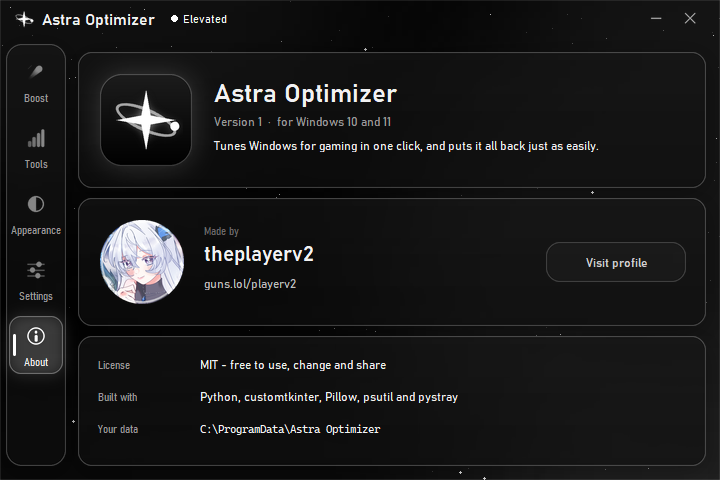
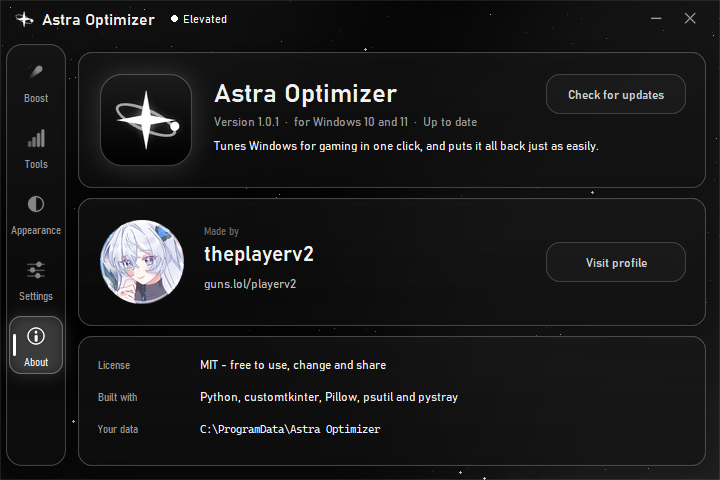
Astra Optimizer v1.0.1: update check
- Checks GitHub releases at startup and every 12 hours while running;
  only looks, never downloads or installs
- About tab: Check for updates button that becomes Download vX, plus
  status in the version line and a dot on the About tab
- Settings: new "Check for updates" switch (rows tightened to fit six)
- README and screenshots updated

Changed region(s): [[0.3667, 0.2188, 0.6722, 0.2812], [0.7944, 0.1875, 0.9167, 0.2188]]

diff --git a/optimizer.py b/optimizer.py
@@ -56,10 +56,14 @@ except Exception:  # pragma: no cover - depends on the build
 
 APP_NAME = "Astra Optimizer"
 LEGACY_APP_NAME = "Optimizer"  # pre-1.12 name: data folder and startup task are carried over
-APP_VERSION = "1.0.0"
-DISPLAY_VERSION = "v1"
+APP_VERSION = "1.0.1"
+DISPLAY_VERSION = "v1.0.1"
 CREDIT_NAME = "theplayerv2"
 CREDIT_URL = "https://guns.lol/playerv2"
+UPDATE_REPO = "theplayerv2/astra-optimizer"
+RELEASES_URL = f"https://github.com/{UPDATE_REPO}/releases"
+UPDATE_API = f"https://api.github.com/repos/{UPDATE_REPO}/releases/latest"
+UPDATE_INTERVAL_MS = 12 * 3600 * 1000  # re-check while it stays open in the tray
 
 # Monochrome palette - brightness carries all meaning (no hue accents)
 VOID = "#000000"          # true black space
@@ -1927,7 +1931,55 @@ EVENT_MODIFY_STATE = 0x0002
 SW_RESTORE = 9
 DEFAULT_SETTINGS = {"tray": True, "autostart": False, "hotkey": True, "custom_host": "", "tray_hint": False,
                     "preview": True, "games": [], "game_auto": False, "clean_skip": [], "dns_original": None,
-                    "restore_point": True, "restore_point_at": 0}
+                    "restore_point": True, "restore_point_at": 0, "updates": True}
+
+
+# --------------------------------------------------------------------------------------
+# Update check (GitHub releases; it only looks, nothing is downloaded or installed)
+# --------------------------------------------------------------------------------------
+
+def parse_version(text: str | None) -> tuple[int, ...] | None:
+    """'v1.0.2' -> (1, 0, 2); trailing zeros dropped so 'v1' == '1.0.0'."""
+    match = re.match(r"\s*v?(\d+(?:\.\d+)*)", text or "", re.IGNORECASE)
+    if not match:
+        return None
+    parts = [int(part) for part in match.group(1).split(".")]
+    while len(parts) > 1 and parts[-1] == 0:
+        parts.pop()
+    return tuple(parts)
+
+
+def is_newer_version(tag: str | None, current: str = APP_VERSION) -> bool:
+    latest, mine = parse_version(tag), parse_version(current)
+    return latest is not None and mine is not None and latest > mine
+
+
+def fetch_latest_release(timeout: float = 8.0) -> dict | None:
+    """The newest published (non-draft, non-pre) release as {"tag", "url"}, or None if there
+    is none yet. Raises OSError/ValueError when GitHub can't be reached or answers oddly."""
+    import urllib.error
+    import urllib.request
+    request = urllib.request.Request(UPDATE_API, headers={
+        "Accept": "application/vnd.github+json", "User-Agent": f"Astra-Optimizer/{APP_VERSION}"})
+    try:
+        with urllib.request.urlopen(request, timeout=timeout) as response:
+            data = json.loads(response.read(512 * 1024).decode("utf-8"))
+    except urllib.error.HTTPError as exc:
+        if exc.code == 404:  # the repository has no releases yet
+            return None
+        raise OSError(f"GitHub answered {exc.code}") from exc
+    tag = str(data.get("tag_name") or "")
+    if parse_version(tag) is None:
+        raise ValueError("the latest release has no version number")
+    url = str(data.get("html_url") or "")
+    if not url.startswith(RELEASES_URL + "/"):  # only ever open this project's own release pages
+        url = RELEASES_URL
+    return {"tag": tag, "url": url}
+
+
+def display_tag(tag: str) -> str:
+    tag = tag.strip()
+    return tag if tag[:1] in "vV" else f"v{tag}"
 
 
 class HotkeyThread(threading.Thread):
@@ -2790,6 +2842,7 @@ L_ABOUT_ICON = (100, 74, 92)          # x, y, size
 L_ABOUT_AVATAR = (100, 220, 84)
 L_ABOUT_PROFILE = (546, 242, 140, 40)
 L_ABOUT_LINK = (204, 286, 150, 20)    # the link text itself is clickable too
+L_ABOUT_UPDATE = (546, 74, 140, 40)   # "Check for updates" / "Download v…"
 L_RAIL_BOX = (6, 44, 60, 422)                  # floating glass box holding the tabs
 L_TABS = {key: (9, 52 + i * 66, 54, 58) for i, key in enumerate(TAB_ORDER)}
 # Boost tab
@@ -2829,12 +2882,13 @@ L_PING_ROW_Y0, L_PING_ROW_H = 134, 34
 L_PING_HOST_FIELD = (78, 424, 500, 42)
 L_PING_COLS = {"name": 94, "latency": 322, "jitter": 410, "loss": 478, "bars": 536}
 # Settings tab
-L_SETTING_ROWS = {key: (78, 100 + i * 62, 628, 56)
-                  for i, key in enumerate(("tray", "autostart", "hotkey", "preview", "restore"))}
+L_SETTING_ROWS = {key: (78, 96 + i * 53, 628, 48)
+                  for i, key in enumerate(("tray", "autostart", "hotkey", "preview", "restore", "updates"))}
+L_SETTING_TEXT_Y = (6, 26)  # title and description offsets inside a row
 L_TOGGLE = (44, 24)
-L_FOLDER_ROW = (78, 412, 628, 48)
-L_SETTING_BUTTONS = {"folder": (570, 416, 120, 40)}
-L_PROTECT_BUTTON = (78 + 628 - 20 - 44 - 16 - 104, 100 + 4 * 62 + 13, 104, 30)  # "Turn on…" in the restore row
+L_FOLDER_ROW = (78, 416, 628, 46)
+L_SETTING_BUTTONS = {"folder": (78 + 628 - 16 - 120, 416 + 4, 120, 38)}
+L_PROTECT_BUTTON = (78 + 628 - 20 - 44 - 16 - 104, L_SETTING_ROWS["restore"][1] + 9, 104, 30)  # "Turn on…"
 L_DIALOG_W = 404
 # Appearance tab
 L_LOOK_RESET = (586, 50, 120, 36)
@@ -2874,6 +2928,7 @@ SETTING_TEXT = {
     "hotkey": (f"Global hotkey  \u00b7  {HOTKEY_LABEL}", "Applies the selected mode, or undoes it. Works in-game."),
     "preview": ("Preview and summary", "Lists what a mode will change, then what it did. Hotkey and tray skip it."),
     "restore": ("Restore point first", "Saves a Windows restore point before your first optimize each day."),
+    "updates": ("Check for updates", "Asks GitHub for a newer version at startup. Nothing downloads on its own."),
 }
 
 CARD_SPECS = [
@@ -3621,6 +3676,9 @@ class OptimizerApp(ctk.CTk):
         self.painter.glass = self.look["glass"] / 100
         self._bg_cache: dict = {}
         self._bg_version = 0
+        self.update_state = "idle"  # idle | checking | current | available | failed
+        self.update_info: dict | None = None
+        self._update_job = None
         self._backdrop_job = None
         self._slider_drag: str | None = None
         self._fade: dict | None = None
@@ -4233,9 +4291,10 @@ class OptimizerApp(ctk.CTk):
         self.t_setting_desc = {}
         for key, (x, y, w, h) in L_SETTING_ROWS.items():
             title, desc = SETTING_TEXT[key]
-            c.create_text(px(x + 20), px(y + 8), anchor="nw", text=title, font=self.f_title, fill=TEXT_HI,
+            ty, dy = L_SETTING_TEXT_Y
+            c.create_text(px(x + 20), px(y + ty), anchor="nw", text=title, font=self.f_title, fill=TEXT_HI,
                           tags=settings)
-            self.t_setting_desc[key] = c.create_text(px(x + 20), px(y + 30), anchor="nw", font=self.f_desc,
+            self.t_setting_desc[key] = c.create_text(px(x + 20), px(y + dy), anchor="nw", font=self.f_desc,
                                                      fill=TEXT_MID, tags=settings)
             self._set_setting_desc(key, desc)
         if not self.admin:
@@ -4247,9 +4306,9 @@ class OptimizerApp(ctk.CTk):
         self.t_buttons["protect"] = c.create_text(px(bx + bw / 2), px(by + bh / 2), text="Turn on…",
                                                   font=self.f_ghost_small, fill=TEXT_HI, tags=(*settings, "protect-btn"))
         x, y, w, h = L_FOLDER_ROW
-        c.create_text(px(x + 20), px(y + 6), anchor="nw", text="Logs and undo data", font=self.f_title,
+        c.create_text(px(x + 20), px(y + 5), anchor="nw", text="Logs and undo data", font=self.f_title,
                       fill=TEXT_HI, tags=settings)
-        c.create_text(px(x + 20), px(y + 27), anchor="nw", text=STATE_DIR,
+        c.create_text(px(x + 20), px(y + 25), anchor="nw", text=STATE_DIR,
                       font=self.f_mono, fill=TEXT_MID, tags=settings)
         for key, (bx, by, bw, bh) in L_SETTING_BUTTONS.items():
             self.t_buttons[key] = c.create_text(px(bx + bw / 2), px(by + bh / 2), text="Open folder",
@@ -4260,8 +4319,11 @@ class OptimizerApp(ctk.CTk):
         x, y, w, h = L_ABOUT_ROWS["app"]
         tx = L_ABOUT_ICON[0] + L_ABOUT_ICON[2] + 22
         c.create_text(px(tx), px(y + 24), anchor="nw", text=APP_NAME, font=self.f_hero, fill=TEXT_HI, tags=ab)
-        c.create_text(px(tx), px(y + 62), anchor="nw", font=self.f_desc, fill=TEXT_MID, tags=ab,
-                      text=f"Version {DISPLAY_VERSION[1:]}  \u00b7  for Windows 10 and 11")
+        self.t_about_version = c.create_text(px(tx), px(y + 62), anchor="nw", font=self.f_desc, fill=TEXT_MID,
+                                             tags=ab, text=self._version_line())
+        bx, by, bw, bh = L_ABOUT_UPDATE
+        self.t_buttons["update"] = c.create_text(px(bx + bw / 2), px(by + bh / 2), text=self._update_label(),
+                                                 font=self.f_ghost, fill=TEXT_HI, tags=ab)
         c.create_text(px(tx), px(y + 86), anchor="nw", font=self.f_desc, fill=TEXT_HI, width=px(x + w - 24 - tx),
                       tags=ab, text="Tunes Windows for gaming in one click, and puts it all back just as easily.")
         x, y, w, h = L_ABOUT_ROWS["credits"]
@@ -4715,6 +4777,8 @@ class OptimizerApp(ctk.CTk):
             return self.tab == "settings"
         if key == "profile":
             return self.tab == "about"
+        if key == "update":
+            return self.tab == "about" and self.update_state != "checking"
         if key == "protect":
             return self.tab == "settings" and self.admin and self.protection is False and not self._protect_pending
         return False
@@ -4861,6 +4925,9 @@ class OptimizerApp(ctk.CTk):
                 paste_layer(scene, img, px(x) - m, px(y) - m)
                 if not selected:
                     self.canvas.itemconfigure(self.t_tabs[key], fill="#CFCFCF" if hovered else TEXT_MID)
+                if key == "about" and self.update_state == "available":  # a new version is out
+                    r, cx, cy = px(3.5), px(x + w - 13), px(y + 11)
+                    ImageDraw.Draw(scene).ellipse((cx - r, cy - r, cx + r, cy + r), fill=STARLIGHT)
             if self.tab == "boost":
                 self._render_boost(scene)
             elif self.tab == "tools":
@@ -4868,6 +4935,10 @@ class OptimizerApp(ctk.CTk):
             elif self.tab == "appearance":
                 self._render_look(scene)
             elif self.tab == "about":
+                if self.update_state == "available":
+                    self._render_primary(scene, "update", L_ABOUT_UPDATE)
+                else:
+                    self._render_ghost(scene, "update", L_ABOUT_UPDATE)
                 self._render_ghost(scene, "profile", L_ABOUT_PROFILE)
                 self.canvas.itemconfigure(self.t_about_link,
                                           fill=TEXT_HI if self.hover == "btn:profile" else SILVER)
@@ -5163,6 +5234,8 @@ class OptimizerApp(ctk.CTk):
                     if inside(rect):
                         return f"clean:{key}"
         elif self.tab == "about":
+            if inside(L_ABOUT_UPDATE):
+                return "btn:update"
             if inside(L_ABOUT_PROFILE) or inside(L_ABOUT_LINK):
                 return "btn:profile"
         elif self.tab == "appearance":
@@ -5358,6 +5431,11 @@ class OptimizerApp(ctk.CTk):
             self._open_state_folder()
         elif target == "btn:profile":
             self._open_link(CREDIT_URL)
+        elif target == "btn:update":
+            if self.update_state == "available" and self.update_info:
+                self._open_link(self.update_info["url"])
+            else:
+                self._check_updates(manual=True)
         elif target == "btn:protect":
             self._confirm_protection()
         elif kind == "game":
@@ -5860,6 +5938,8 @@ class OptimizerApp(ctk.CTk):
                 elif kind == "autostart-state":
                     self._set_setting("autostart", bool(event[1]))
                     self._render()
+                elif kind == "update":
+                    self._on_update_result(*event[1:])
                 elif kind == "game-start":
                     self._on_game_start(*event[1:])
                 elif kind == "game-stop":
@@ -5957,6 +6037,8 @@ class OptimizerApp(ctk.CTk):
         if self.admin:
             threading.Thread(target=self._sync_autostart, name="autostart", daemon=True).start()
             self._check_protection()
+        if self._setting("updates"):
+            self._schedule_update_check(4000)  # after startup has settled
 
     def _start_tray(self) -> bool:
         if self.tray is not None:
@@ -6113,6 +6195,12 @@ class OptimizerApp(ctk.CTk):
             on = not self._setting("preview")
             self._set_setting("preview", on)
             self._emit("ok", "Modes now show a preview and a summary" if on else "Modes now run without a preview")
+        elif key == "updates":
+            on = not self._setting("updates")
+            self._set_setting("updates", on)
+            self._emit("ok", "Astra Optimizer will check GitHub for new versions" if on
+                       else "Automatic update checks are off. About → Check for updates still works")
+            self._schedule_update_check(5000 if on else None)
         elif key == "autostart":
             desired = not self._setting("autostart")
             self._autostart_pending, self._autostart_desired = True, desired
@@ -6145,6 +6233,77 @@ class OptimizerApp(ctk.CTk):
         if exists and (getattr(sys, "frozen", False) or legacy):
             AutoStart.enable()
         self.events.put(("autostart-state", exists))
+
+    # ---------------- update check ----------------
+
+    def _version_line(self) -> str:
+        base = f"Version {DISPLAY_VERSION[1:]}  ·  for Windows 10 and 11"
+        status = {"checking": "Checking for updates…", "current": "Up to date",
+                  "failed": "Couldn't reach GitHub"}.get(self.update_state)
+        if self.update_state == "available" and self.update_info:
+            status = f"{display_tag(self.update_info['tag'])} is available"
+        return f"{base}  ·  {status}" if status else base
+
+    def _update_label(self) -> str:
+        if self.update_state == "available" and self.update_info:
+            return f"Download {display_tag(self.update_info['tag'])}"
+        return "Checking…" if self.update_state == "checking" else "Check for updates"
+
+    def _refresh_update_ui(self) -> None:
+        self.canvas.itemconfigure(self.t_about_version, text=self._version_line(),
+                                  fill=TEXT_HI if self.update_state == "available" else TEXT_MID)
+        self.canvas.itemconfigure(self.t_buttons["update"], text=self._update_label())
+        self.canvas.configure(cursor="hand2" if self._enabled(self.hover) else "")
+        self._render()
+
+    def _schedule_update_check(self, delay_ms: int | None) -> None:
+        """(Re)arm the automatic check; None cancels it."""
+        if self._update_job is not None:
+            self.after_cancel(self._update_job)
+            self._update_job = None
+        if delay_ms is not None:
+            self._update_job = self.after(delay_ms, self._auto_update_check)
+
+    def _auto_update_check(self) -> None:
+        self._update_job = None
+        if not self._setting("updates"):
+            return
+        self._check_updates(manual=False)
+        self._schedule_update_check(UPDATE_INTERVAL_MS)
+
+    def _check_updates(self, manual: bool) -> None:
+        if self.update_state == "checking":
+            return
+        previous = self.update_state
+        self.update_state = "checking"
+        self._refresh_update_ui()
+
+        def work():
+            try:
+                self.events.put(("update", manual, previous, fetch_latest_release(), None))
+            except Exception as exc:  # offline, blocked, GitHub down: never bother the user unasked
+                self.events.put(("update", manual, previous, None, str(exc) or type(exc).__name__))
+
+        threading.Thread(target=work, name="update-check", daemon=True).start()
+
+    def _on_update_result(self, manual: bool, previous: str, release: dict | None, error: str | None) -> None:
+        if error is not None:
+            # A failed automatic check keeps whatever we knew before; only a manual one says so.
+            self.update_state = "failed" if manual or previous in ("idle", "failed") else previous
+            if manual:
+                self._emit("warn", f"Couldn't check for updates: {error}")
+        elif release and is_newer_version(release["tag"]):
+            announce = not (previous == "available" and self.update_info
+                            and self.update_info["tag"] == release["tag"])
+            self.update_state, self.update_info = "available", release
+            if announce or manual:
+                self._emit("info", f"{APP_NAME} {display_tag(release['tag'])} is available. "
+                                   "Download it from the About tab.")
+        else:
+            self.update_state, self.update_info = "current", None
+            if manual:
+                self._emit("ok", f"{APP_NAME} {DISPLAY_VERSION} is the latest version")
+        self._refresh_update_ui()
 
     def _open_link(self, url: str) -> None:
         """Open in the user's browser. Going through Explorer keeps the browser out of the

diff --git a/README.md b/README.md
@@ -38,7 +38,7 @@ Before anything runs you see a preview of what will change on *your* PC, and aft
 
 - Starfield, plain black or your own picture as the background, with blur, dim, panel opacity and frost.
 - Motion: follow Windows, Full, Reduced or Off.
-- Keep running in the tray, start with Windows (elevated, no UAC prompt), a global hotkey (**Ctrl+Alt+O**) to toggle your mode in-game, and an optional System Restore point before your first optimize each day.
+- Keep running in the tray, start with Windows (elevated, no UAC prompt), a global hotkey (**Ctrl+Alt+O**) to toggle your mode in-game, an optional System Restore point before your first optimize each day, and a check for new versions.
 
 | | |
 |---|---|
@@ -56,6 +56,10 @@ Before anything runs you see a preview of what will change on *your* PC, and aft
 
 Get **Astra Optimizer.exe** from the [Releases](../../releases) page and run it. It needs administrator
 rights, so Windows asks once (UAC). Without them it still opens, but only to monitor.
+
+When a newer version comes out, the About tab shows a **Download** button that opens its release page.
+Astra Optimizer only checks; it never downloads or installs anything by itself, and you can turn the
+check off in Settings.
 
 The exe isn't code-signed, so the first launch may show *Windows protected your PC*. Choose **More info**
 and then **Run anyway**, or build it yourself from source.
